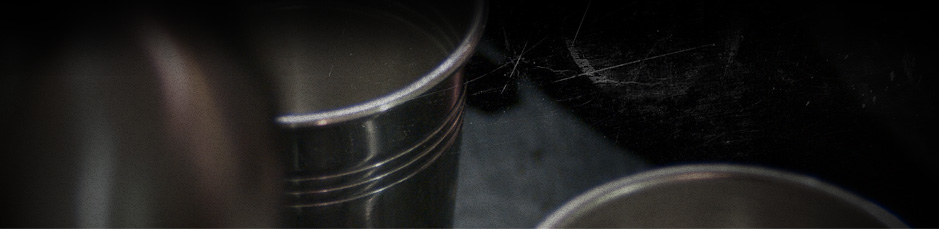
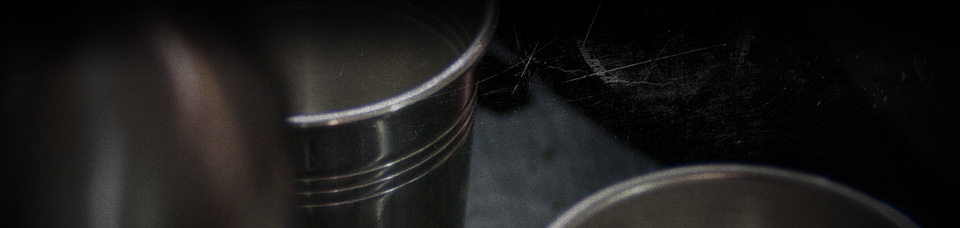
Layout tweaks

diff --git a/stylesheets/application.css b/stylesheets/application.css
@@ -7,11 +7,11 @@ a:hover { color: #fff; background-color: #ed1b24; }
 /****************************************/
 /* HEADER
 /****************************************/
-#header { height: 229px; background: #030302; }
-#header .wrapper { width: 939px; height: 100%; background-image: url('../images/header/header.jpg'); margin: auto; padding: 0 30px; }
+#header { height: 229px; background: #030302; background-image: url('../images/header/header.jpg'); background-position: center top; }
+#header .wrapper { width: 939px; height: 100%; margin: auto; padding: 0 30px; }
 #header .logo { display: inline-block; }
 #header .logo a { display: inline-block; text-indent: -9999px; width: 153px; height: 145px; margin-left: -30px; background: transparent url('../images/header/logo.png') no-repeat 0 0; }
-#navigation { display: inline-block; margin-left: 100px; }
+#navigation { display: inline-block; margin-left: 110px; }
 #navigation a { display: inline-block; text-indent: -9999px; height: 41px; margin-right: 35px; background-color: transparent; background-position: 0 0; }
 #navigation a.about { width: 137px; background-image: url('../images/header/nav_about.png'); }
 #navigation a.subscribe { width: 118px; background-image: url('../images/header/nav_subscribe.png'); }
@@ -20,9 +20,9 @@ a:hover { color: #fff; background-color: #ed1b24; }
 /****************************************/
 /* MAIN
 /****************************************/
-#main { width: 940px; margin: 0 auto; padding-top: 78px; background: url('../images/soiree.png') no-repeat 275px 18px; }
+#main { width: 940px; margin: 0 auto; padding-top: 78px; background: url('../images/soiree.png') no-repeat 277px 16px; }
 #main h4 { font-size: 18px; line-height: 1.6em; text-shadow: 1px 1px 1px #fff; margin-top: -6px; }
-#main h4 span.lead { float: left; font-size: 72px; line-height: 62px; margin: -12px 3px 0 8px; font-style: oblique; }
+#main h4 span.lead { display: block; float: left; font-size: 72px; line-height: 62px; margin: -12px 3px 0 8px; font-style: oblique; }
 
 /****************************************/
 /* SIDEBAR
@@ -49,21 +49,21 @@ a:hover { color: #fff; background-color: #ed1b24; }
 /****************************************/
 /* FEED
 /****************************************/
-#feed { position: relative; margin-top: 55px; width: 590px; padding: 26px 15px; background-color: #fff; background-repeat: repeat-x; background-image: url('../images/feed_header.png'); color: #231f20; }
+#feed { position: relative; margin-top: 55px; width: 605px; padding: 26px 0 26px 15px; background-color: #fff; background-repeat: repeat-x; background-image: url('../images/feed_header.png'); color: #231f20; }
 #feed h2.headline_alibinews { text-indent: -9999px; background: url('../images/headline_alibinews.png') no-repeat; width: 100%; height: 41px; margin-bottom: 20px; }
 #feed .item { padding: 25px 65px 10px 65px; }
 #feed .item h3.title { font-size: 24px; line-height: 1.5em; }
 #feed .item h3 a, #feed .item h3 a:hover { color: #444; background: transparent; }
 #feed .item h3 a:hover { color: #ed1b24; }
-#feed .item h5.timestamp { font-size: 15px; color: #555; font-style: oblique; margin-bottom: 25px; }
-#feed .item p { font-size: 14px; line-height: 1.5em; margin-bottom: 1em; }
-#feed .icon { clear: both; width: 100%; height: 120px; background: url('../images/icon_guitar.png') no-repeat 50% 90%; }
-#feed .bottom { background: url('../images/feed_footer.png'); width: 619px; height: 27px; position: absolute; bottom: -27px; }
+#feed .item h5.timestamp { font-size: 15px; color: #555; font-style: oblique; margin-bottom: 15px; }
+#feed .item p { font-size: 14px; line-height: 1.8em; margin-bottom: 1em; }
+#feed .icon { clear: both; width: 100%; height: 50px; background: url('../images/icon_guitar.png') no-repeat 50% 90%; margin-top: 80px; }
+#feed .bottom { background: url('../images/feed_footer.png'); width: 619px; height: 27px; position: absolute; left: 0px; bottom: -27px; }
 
 /****************************************/
 /* FOOTER
 /****************************************/
-#footer { width: 100%; height: 55px; margin-top: 80px; background: url('../images/footer/background.gif'); }
+#footer { width: 100%; height: 55px; margin-top: 110px; background: url('../images/footer/background.gif'); }
 #footer .wrapper { position: relative; width: 960px; margin: auto; vertical-align: middle; }
 #footer p { font-size: 12px; line-height: 52px; padding: 3px 0 0 127px; color: #fff; text-shadow: 1px 1px 1px #000; }
 #footer em { font-style: oblique;}

diff --git a/index.html b/index.html
@@ -91,11 +91,32 @@
       <div id="feed">
         <h2 class="headline_alibinews">Alibi News</h2>
         <hr />
+    		
+        <div class="item">
+      		<h3 class="title"><a href="#" title="We’re live on Kickstarter">We’re live on Kickstarter</a></h3>
+    			<h5 class="timestamp">July 22, 2011 </h4>
+    			<p>On July 22, we launched a project on kickstarter.com to raise money for the first issue of Alibi.  We came blazing out of the gates with a bunch of generous backers.  The good thing about Kickstarter is that we can raise funds beyond our $13,000 goal, which will give us the means and stability to make arrangements for our future issues.  So please, visit the page <a href="http://www.kickstarter.com/projects/2042814870/alibi-a-magazine-of-literature-and-rock-and-roll" target="_blank">http://www.kickstarter.com/projects/2042814870/alibi-a-magazine-of-literature-and-rock-and-roll</a>, and tell your friends.</p>
+    		</div>
+    		
+    		<div class="item">
+      		<h3 class="title"><a href="#" title="Neko Case to Headline First Alibi Event">Neko Case to Headline First Alibi Event</a></h3>
+    			<h5 class="timestamp">July 22, 2011</h4>
+  			  <img src="images/fpo/blog_image_neko.jpg" class="photo" alt="Neko Case" />
+    			<p>Rock &amp; roll and country darling Neko Case will ride a tornado into the San Francisco Bay Area to headline the first Alibi event this winter, along with a writer we’ll announce soon.  Stayed tuned for ticket info.  By the way, Alibi subscribers always get first crack at tickets to our events.  And you should check the <a href="http://www.kickstarter.com/projects/2042814870/alibi-a-magazine-of-literature-and-rock-and-roll">Kickstarter page</a> for rewards that include VIP seats and backstage passes.</p>
+    		</div>
+        
+        <div class="item">
+      		<h3 class="title"><a href="#" title="New Mini-Concert with Zach Rogue">New Mini-Concert with Zach Rogue</a></h3>
+    			<h5 class="timestamp">July 16, 2011</h4>
+    			<img src="images/fpo/blog_image_zach.jpg" alt="Zach Rogue" class="photo" />
+    			<p>In July, the Alibi crew will be filming a mini-concert with Rogue Wave’s frontman.  Zach has a new solo record coming out soon under the artist name Release the Sunbird.  He’s invited us over to his house for an exclusive backyard concert, which we will film and then post here on alibimagazine.com.  This will be the first of an exclusive series of mini-concerts and mini-readings that we’ll feature on the site.</p>
+    		</div>
+        
         <div class="item">
       		<h3 class="title"><a href="#" title="First Issue of Alibi is Taking Shape">First Issue of Alibi is Taking Shape</a></h3>
     			<h5 class="timestamp">July 22, 2011</h4>
-    			<p>Several terrific authors and musicians have signed on for the first issue of Alibi, due out this winter.  The print mag will appear quarterly, and the debut issue will feature new writing by <a href="#">Tobias Wolff</a>, <a href="#">Jim White</a>, Zach Rogue, Kim Addonizio, Blake Hazard, Ted Gioia, Adrian McKinty, Viva Las Vegas, and many others.  The magazine will contain interviews, short stories, essays, and a handful of features in which musicians write about books and authors write about music.</p>
-          <p>In July, the Alibi crew will be filming a mini-concert with Rogue Wave's frontman.  Zach has a new solo record coming out soon under the artist name Release the Sunbird.  He's invited us over to his house for an exclusive backyard concert, which we will film and then post here on alibimagazine.com.  This will be the first of an exclusive series of mini-concerts and mini-readings that we'll feature on the site.</p>
+  			  <img src="images/fpo/blog_image_alibi.jpg" class="photo" alt="Alibi Magazine" />
+    			<p>Several terrific authors and musicians have signed on for the first issue of Alibi, due out this winter.  The print mag will appear quarterly, and the debut issue will feature new writing by <a href="#">Tobias Wolff</a>, <a href="#">Jim White</a>, <a href="#">Zach Rogue</a>, <a href="#">Kim Addonizio</a>, <a href="#">Blake Hazard</a>, <a href="#">Ted Gioia</a>, <a href="#">Adrian McKinty</a>, <a href="#">Viva Las Vegas</a>, and many others. The magazine will contain interviews, short stories, essays, and a handful of features in which musicians write about books and authors write about music.</p>
     		</div>
       
         <div class="icon"></div>
